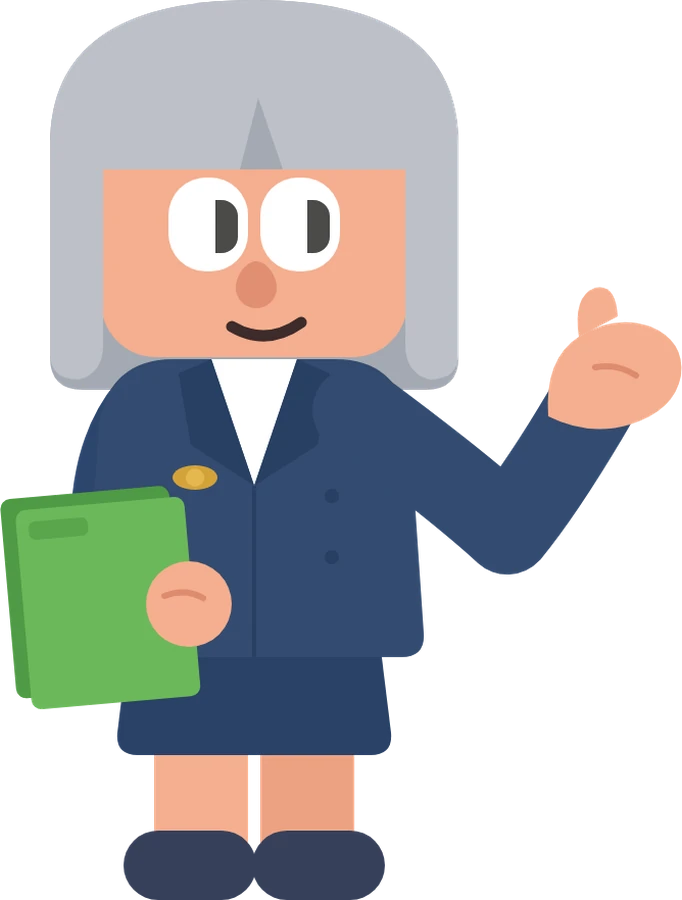
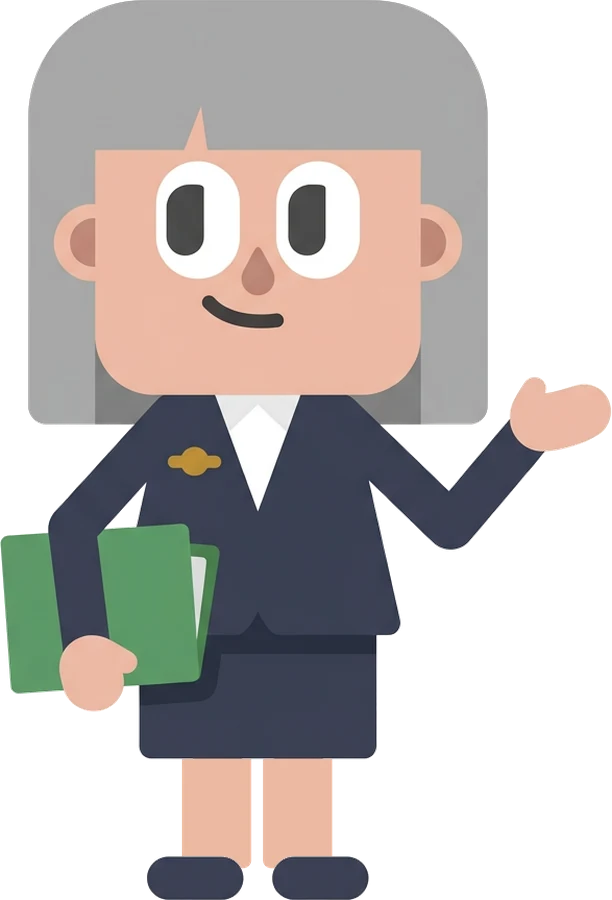
Back to the previous capybara and lawyer

diff --git a/index.html b/index.html
@@ -444,8 +444,8 @@
             <path d="M40 399H560" stroke="#d5e0ec" stroke-width="2"/>
             <ellipse class="ch-fit ch-fit--1" cx="258" cy="397" rx="68" ry="8" fill="#143c66" fill-opacity=".14"/>
             <ellipse class="ch-fit ch-fit--2" cx="240" cy="397" rx="70" ry="8" fill="#143c66" fill-opacity=".14"/>
-            <ellipse class="ch-fit ch-fit--3" cx="250" cy="397" rx="57" ry="8" fill="#143c66" fill-opacity=".14"/>
-            <ellipse class="ch-fit ch-fit--4" cx="250" cy="397" rx="56" ry="8" fill="#143c66" fill-opacity=".14"/>
+            <ellipse class="ch-fit ch-fit--3" cx="258" cy="397" rx="51" ry="8" fill="#143c66" fill-opacity=".14"/>
+            <ellipse class="ch-fit ch-fit--4" cx="258" cy="397" rx="49" ry="8" fill="#143c66" fill-opacity=".14"/>
 
             <g class="ch-hop">
                 <!-- healthcare: a doctor with a round afro, a white coat over teal scrubs and a stethoscope -->
@@ -458,11 +458,11 @@
                 </g>
                 <!-- a tech company: a capybara in round glasses and a navy code hoodie, green headphones, a laptop -->
                 <g class="ch-fit ch-fit--3">
-                  <image href="images/tbyb-tech.webp?v=cd7a2690" x="156.9" y="68" width="249.7" height="330"/>
+                  <image href="images/tbyb-tech.webp?v=b226dca8" x="166.0" y="68" width="214.9" height="330"/>
                 </g>
-                <!-- a law firm: a silver bob, a navy suit and skirt, a gold pin and a green folder at her side -->
+                <!-- a law firm: a silver bob, a navy suit, a gold pin and a green folder -->
                 <g class="ch-fit ch-fit--4">
-                  <image href="images/tbyb-law-firm.webp?v=f323675c" x="156.9" y="68" width="250.1" height="330"/>
+                  <image href="images/tbyb-law-firm.webp?v=8c7ef6e2" x="163.8" y="68" width="224.4" height="330"/>
                 </g>
             </g>
 

diff --git a/src/body.html b/src/body.html
@@ -331,8 +331,8 @@
             <path d="M40 399H560" stroke="#d5e0ec" stroke-width="2"/>
             <ellipse class="ch-fit ch-fit--1" cx="258" cy="397" rx="68" ry="8" fill="#143c66" fill-opacity=".14"/>
             <ellipse class="ch-fit ch-fit--2" cx="240" cy="397" rx="70" ry="8" fill="#143c66" fill-opacity=".14"/>
-            <ellipse class="ch-fit ch-fit--3" cx="250" cy="397" rx="57" ry="8" fill="#143c66" fill-opacity=".14"/>
-            <ellipse class="ch-fit ch-fit--4" cx="250" cy="397" rx="56" ry="8" fill="#143c66" fill-opacity=".14"/>
+            <ellipse class="ch-fit ch-fit--3" cx="258" cy="397" rx="51" ry="8" fill="#143c66" fill-opacity=".14"/>
+            <ellipse class="ch-fit ch-fit--4" cx="258" cy="397" rx="49" ry="8" fill="#143c66" fill-opacity=".14"/>
 
             <g class="ch-hop">
                 <!-- healthcare: a doctor with a round afro, a white coat over teal scrubs and a stethoscope -->
@@ -345,11 +345,11 @@
                 </g>
                 <!-- a tech company: a capybara in round glasses and a navy code hoodie, green headphones, a laptop -->
                 <g class="ch-fit ch-fit--3">
-                  <image href="__ASSET_TBYB_TECH__" x="156.9" y="68" width="249.7" height="330"/>
+                  <image href="__ASSET_TBYB_TECH__" x="166.0" y="68" width="214.9" height="330"/>
                 </g>
-                <!-- a law firm: a silver bob, a navy suit and skirt, a gold pin and a green folder at her side -->
+                <!-- a law firm: a silver bob, a navy suit, a gold pin and a green folder -->
                 <g class="ch-fit ch-fit--4">
-                  <image href="__ASSET_TBYB_LAW__" x="156.9" y="68" width="250.1" height="330"/>
+                  <image href="__ASSET_TBYB_LAW__" x="163.8" y="68" width="224.4" height="330"/>
                 </g>
             </g>
 
